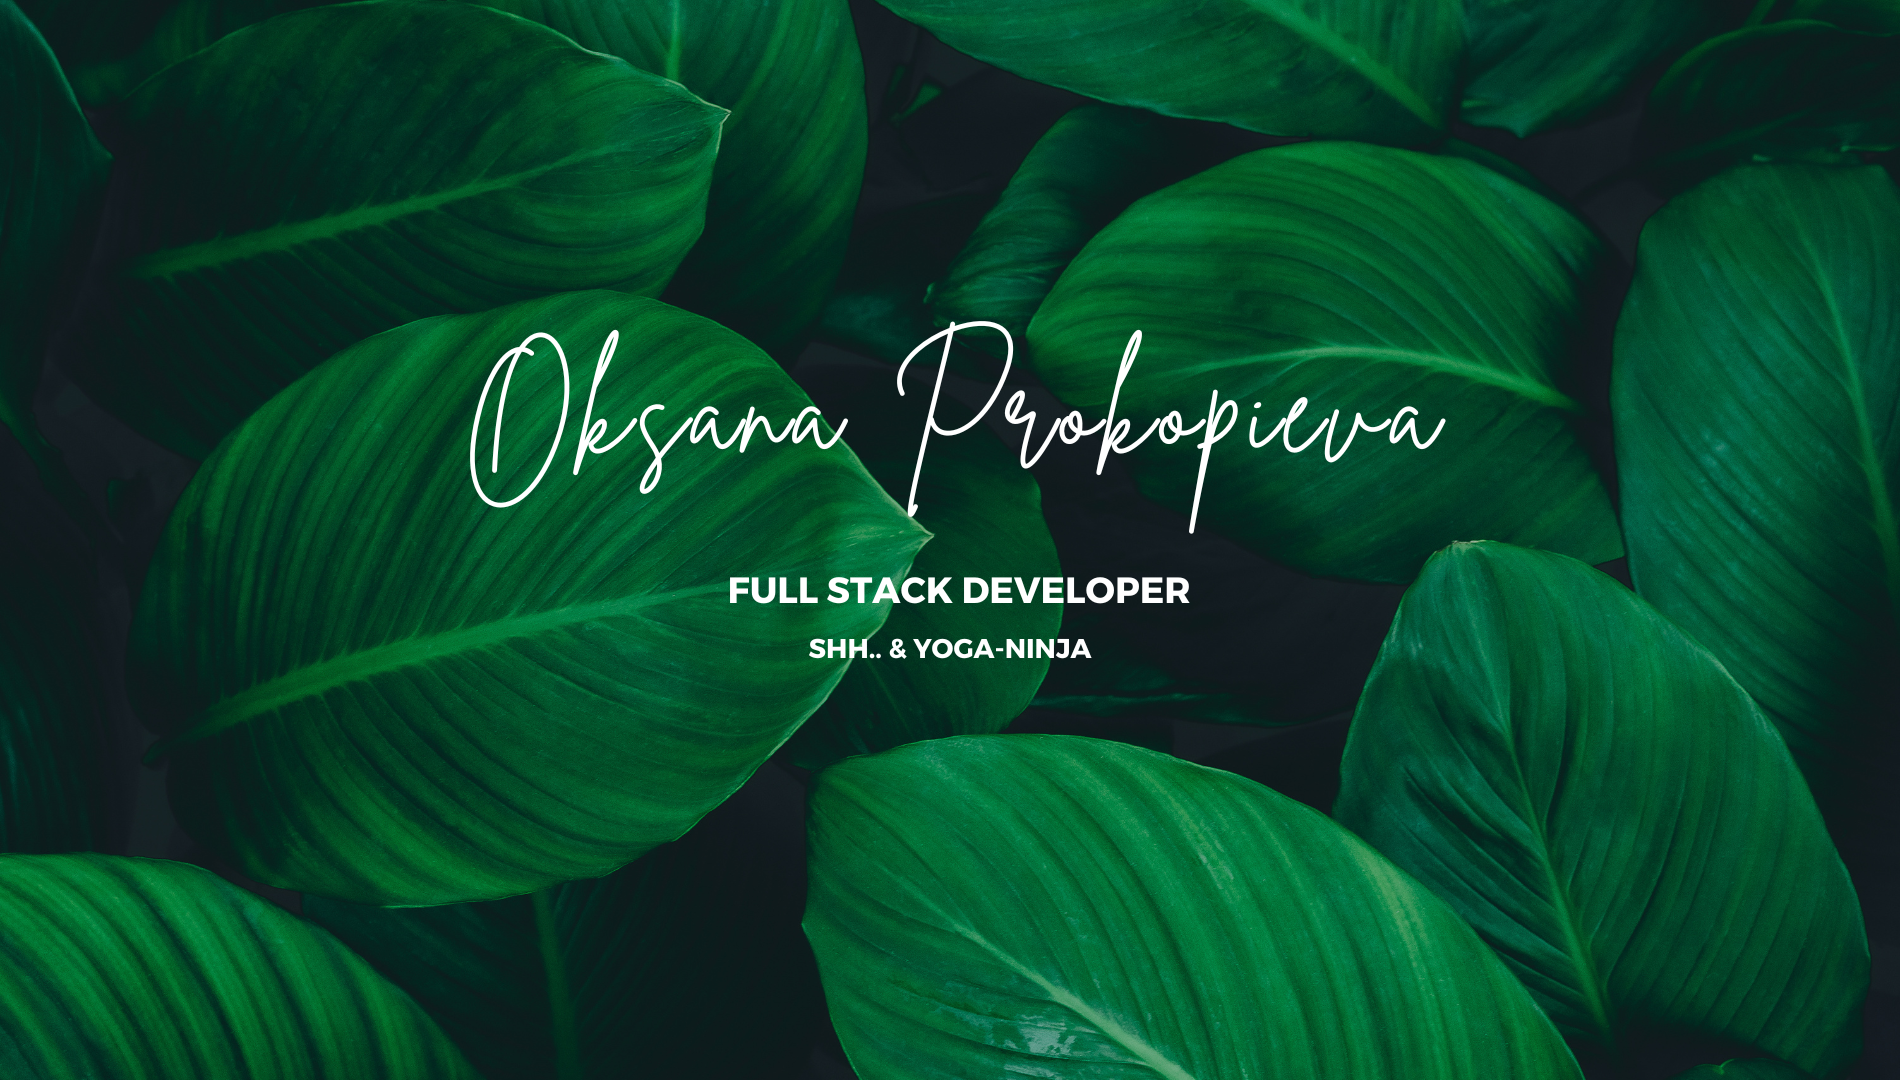
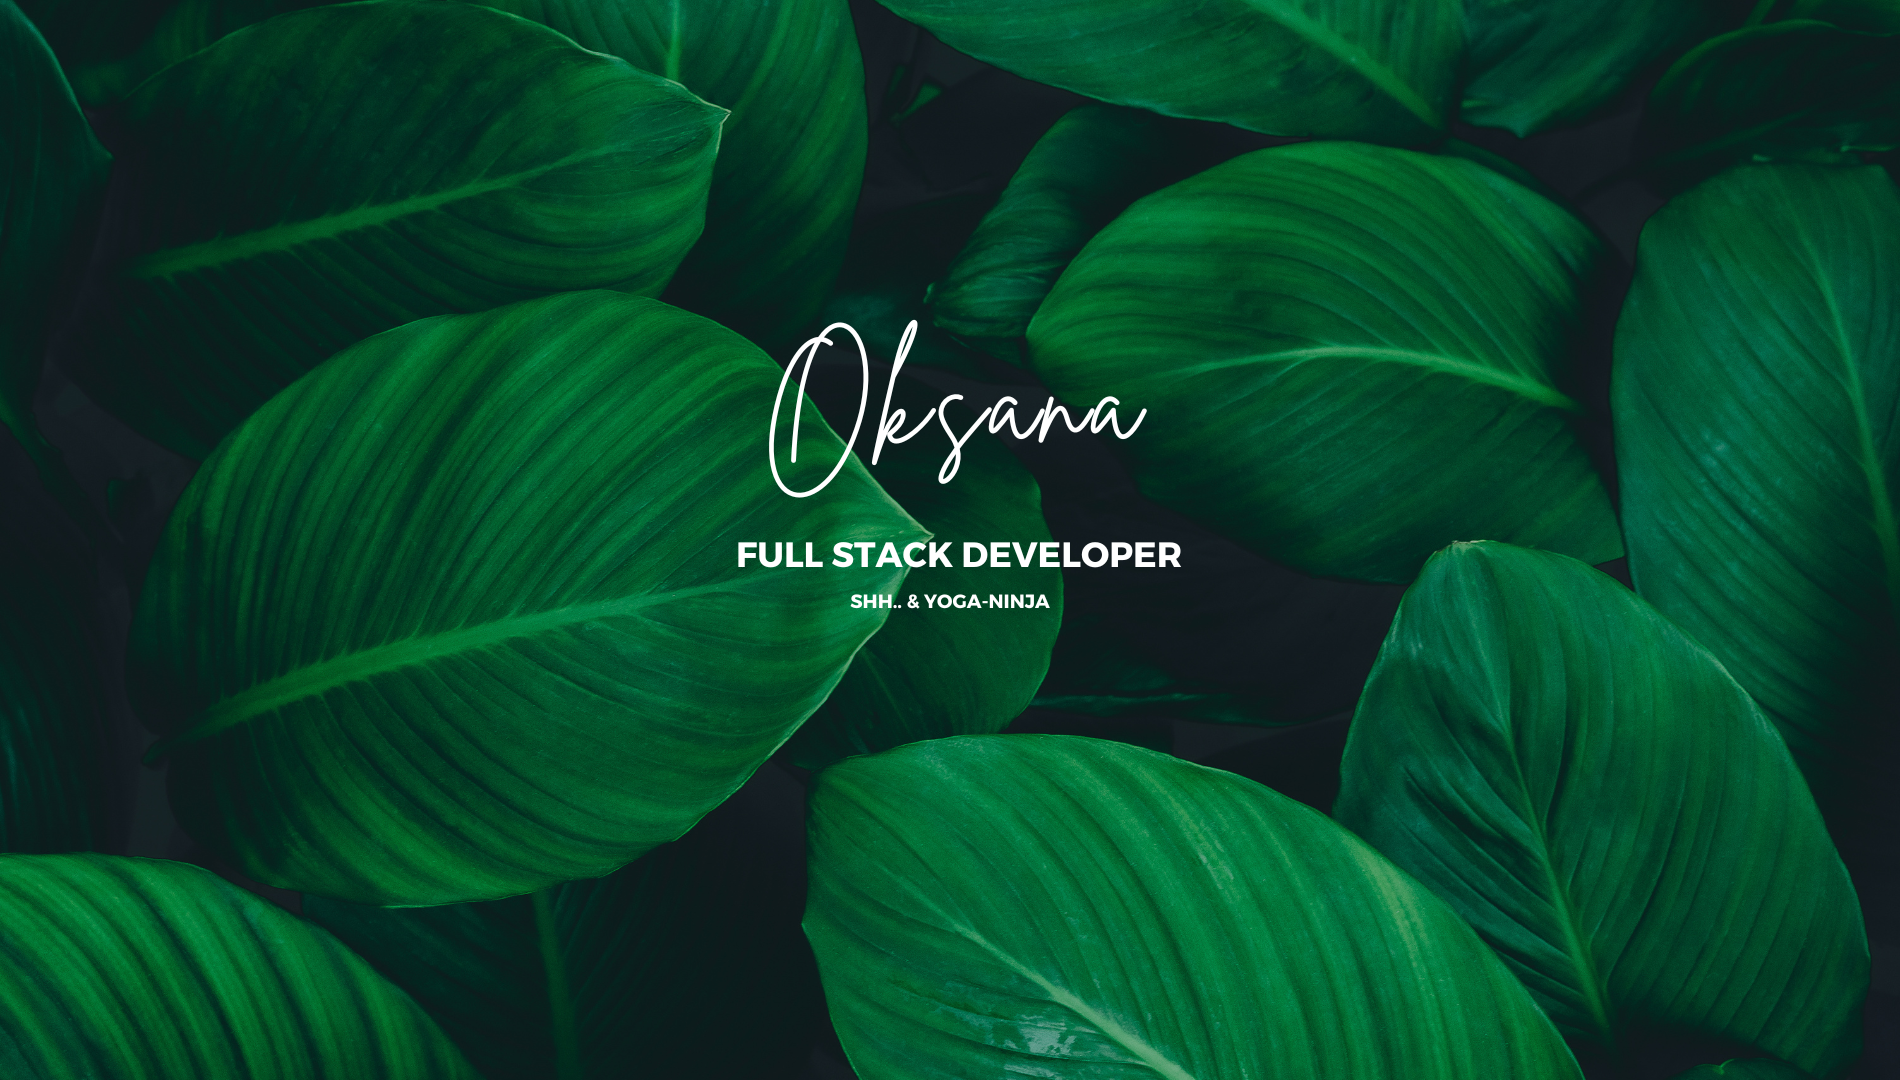
finish strucrures of Greeting page

Changed region(s): [[0.2484, 0.275, 0.7453, 0.4889], [0.3726, 0.4889, 0.6211, 0.6111], [0.59, 0.3056, 0.6211, 0.3361]]

diff --git a/src/style/GreetingStyle.tsx b/src/style/GreetingStyle.tsx
@@ -1,6 +1,8 @@
 import Box from "@mui/material/Box";
+import Typography from "@mui/material/Typography";
+import Button from "@mui/material/Button";
 import { styled } from "@mui/system";
-import backgroundImg from "../assets/img/greeting.png"
+import backgroundImg from "../assets/img/greeting.png";
 
 export const StyledContainer = styled(Box)`
   background-image: url(${backgroundImg});
@@ -8,4 +10,47 @@ export const StyledContainer = styled(Box)`
   background-position: center;
   width: 100%;
   height: 100vh;
+`;
+
+export const StyledBoxSkills = styled(Box)`
+  display: flex;
+  justify-content: center;
+  padding-top: 1%;
+  flex-wrap: wrap;
+`;
+
+export const StyledTypography = styled(Typography)`
+  display: flex;
+  color: #e0dcdc;
+  justify-content: center;
+  padding: 0.5% 2.2%;
+  flex-wrap: wrap;
+`;
+
+export const StyledButton = styled(Button)`
+  display: flex;
+  color: #022920;
+  border: 1px solid white;
+  border-radius: 35px;
+  justify-content: center;
+  padding: 0.5% 2.2%;
+  flex-wrap: wrap;
+  padding: 8px 21px;
+  margin-bottom: 10%;
+  background-color: rgba(255, 255, 255, 0.3);
+  box-shadow: 0px 4px 8px rgba(255, 255, 255, 0.5);
+  &:hover {
+    color: white;
+  }
+  svg {
+    margin-right: 8px; 
+  }
+`;
+
+export const StyledBoxButtons = styled(Box)`
+  display: flex;
+  justify-content: space-around;
+  padding: 0 35%;
+  padding-top: 62vh;
+  flex-wrap: wrap;
 `;

diff --git a/src/components/pages/Greeting.tsx b/src/components/pages/Greeting.tsx
@@ -1,8 +1,57 @@
-import { StyledContainer } from "../../style/GreetingStyle";
+import {
+  StyledBoxButtons,
+  StyledBoxSkills,
+  StyledButton,
+  StyledContainer,
+  StyledTypography,
+} from "../../style/GreetingStyle";
+import { PiLinkedinLogoLight } from "react-icons/pi";
+import { PiFolderUserThin } from "react-icons/pi";
 
+const skills = [
+  "React.js",
+  "TypeScript",
+  "JavaScript",
+  "Node.js",
+  "REST API's",
+  "Axios",
+  "Express.js",
+  "Redux",
+  "GraphQL",
+  "JWT",
+  "Material UI",
+  "Bootstrap",
+  "styled-components",
+  "Figma",
+  "MongoDB",
+  "Mongoose",
+  "Jest",
+  "RTL",
+  "Git",
+  "CSS3",
+  "HTML5",
+];
 
 export const Greeting = () => {
-    return (
-        <StyledContainer>Here</StyledContainer>
-    );
-}
+  return (
+    <>
+      <StyledContainer>
+        <StyledBoxSkills>
+          {skills.map((skill, i) => {
+            return <StyledTypography key={i}>{skill}</StyledTypography>;
+          })}
+        </StyledBoxSkills>
+        <StyledBoxButtons>
+          <StyledButton>
+            <PiLinkedinLogoLight size="1.5em" />
+            LinkedIn
+          </StyledButton>
+          <StyledButton>
+            <PiFolderUserThin size="1.5em" />
+            Portfolio
+          </StyledButton>
+        </StyledBoxButtons>
+      </StyledContainer>
+    </>
+  );
+};
